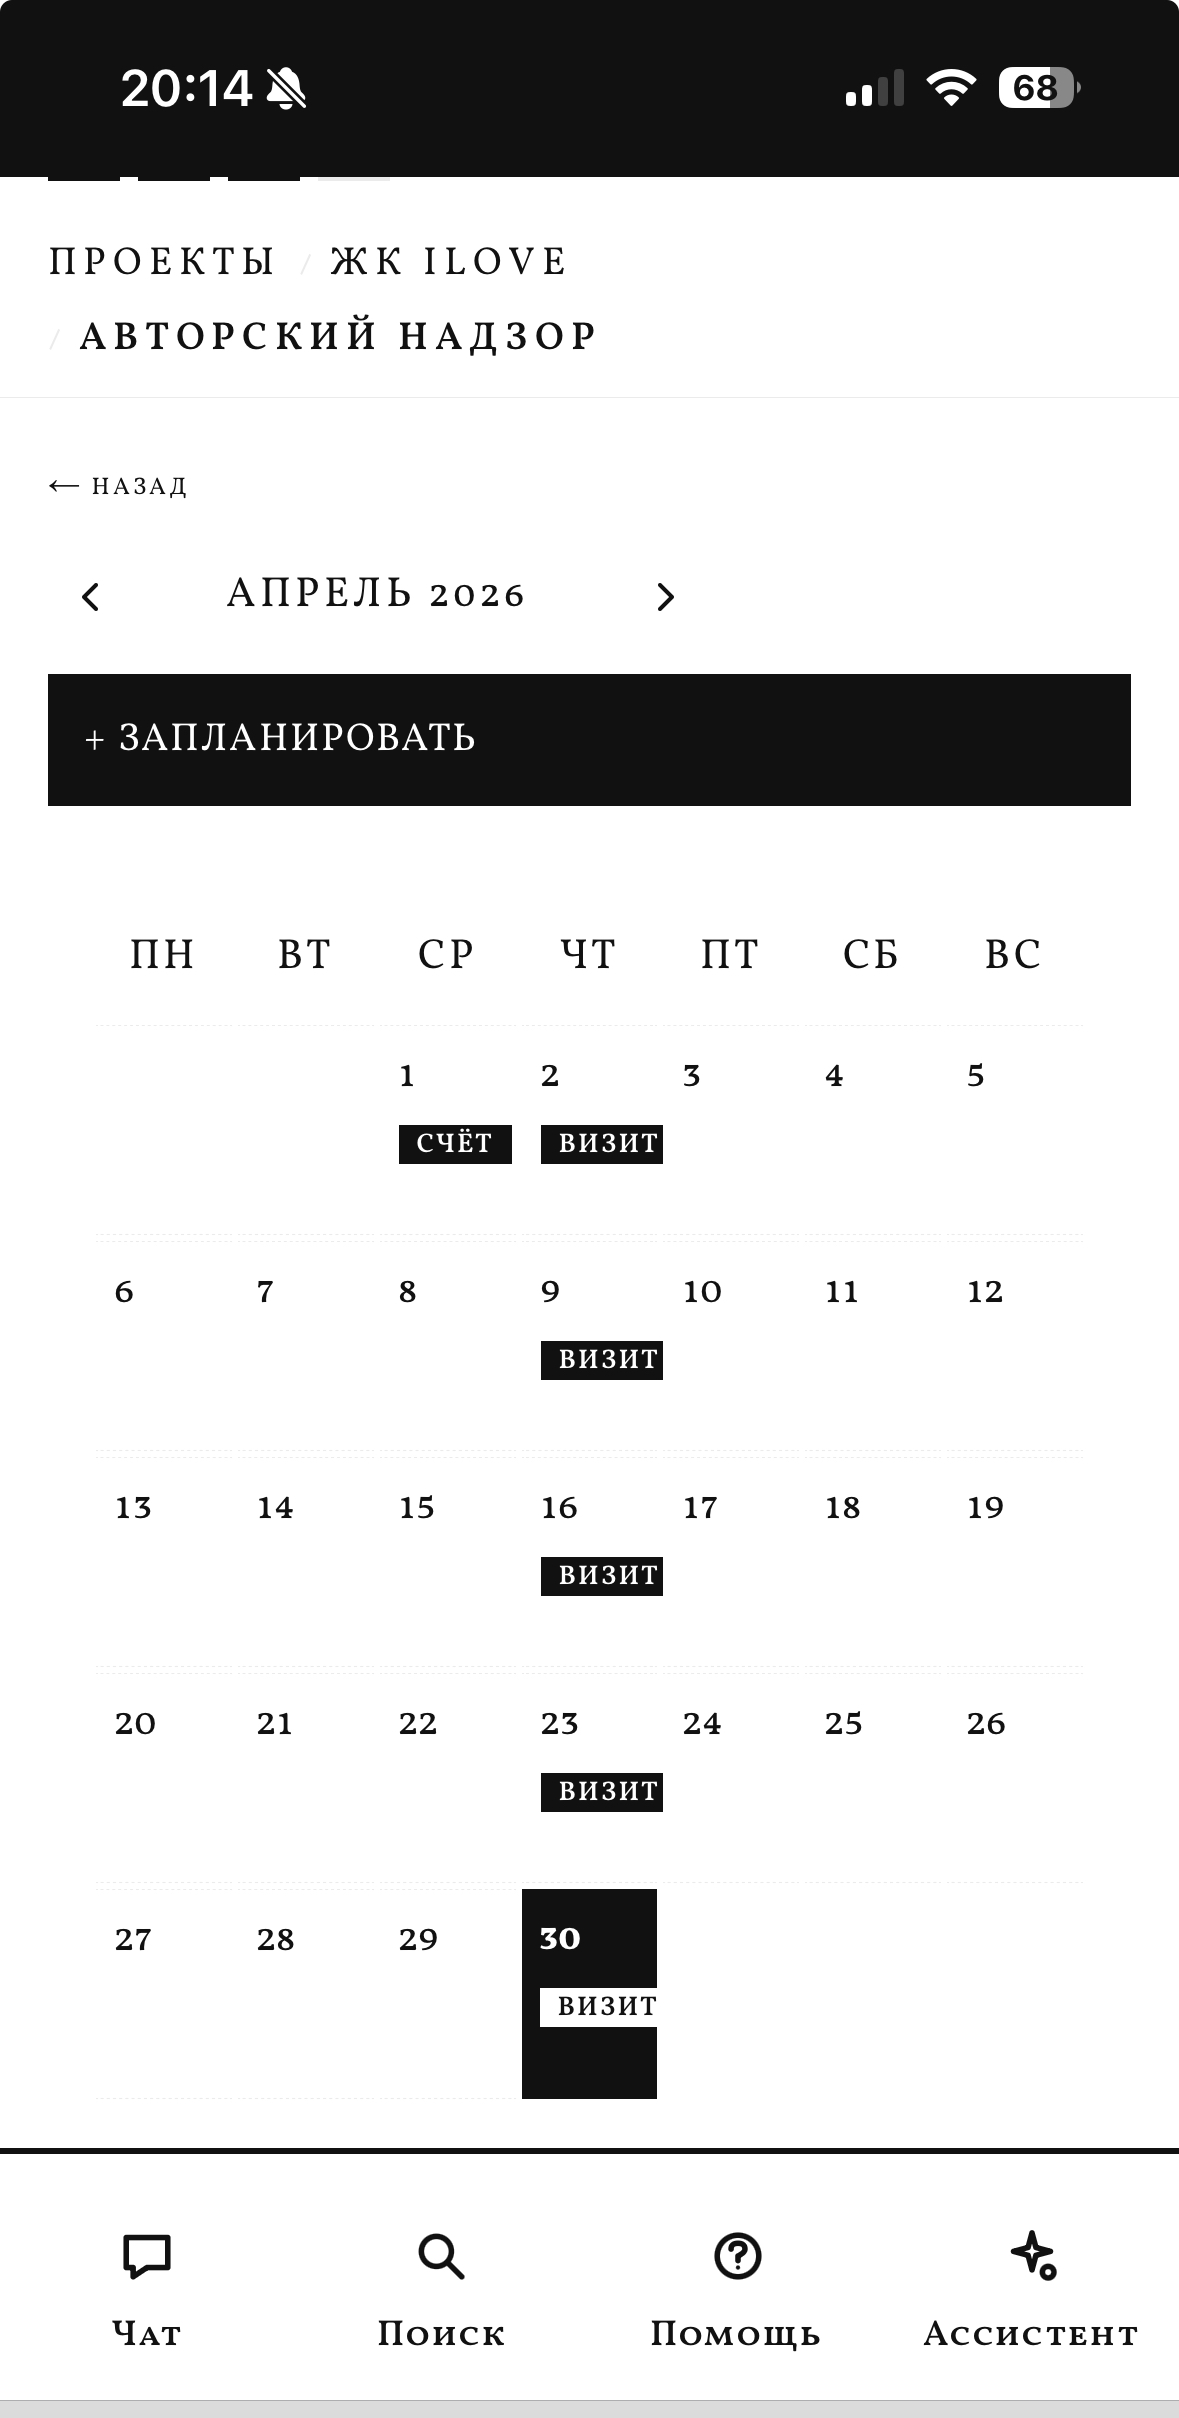
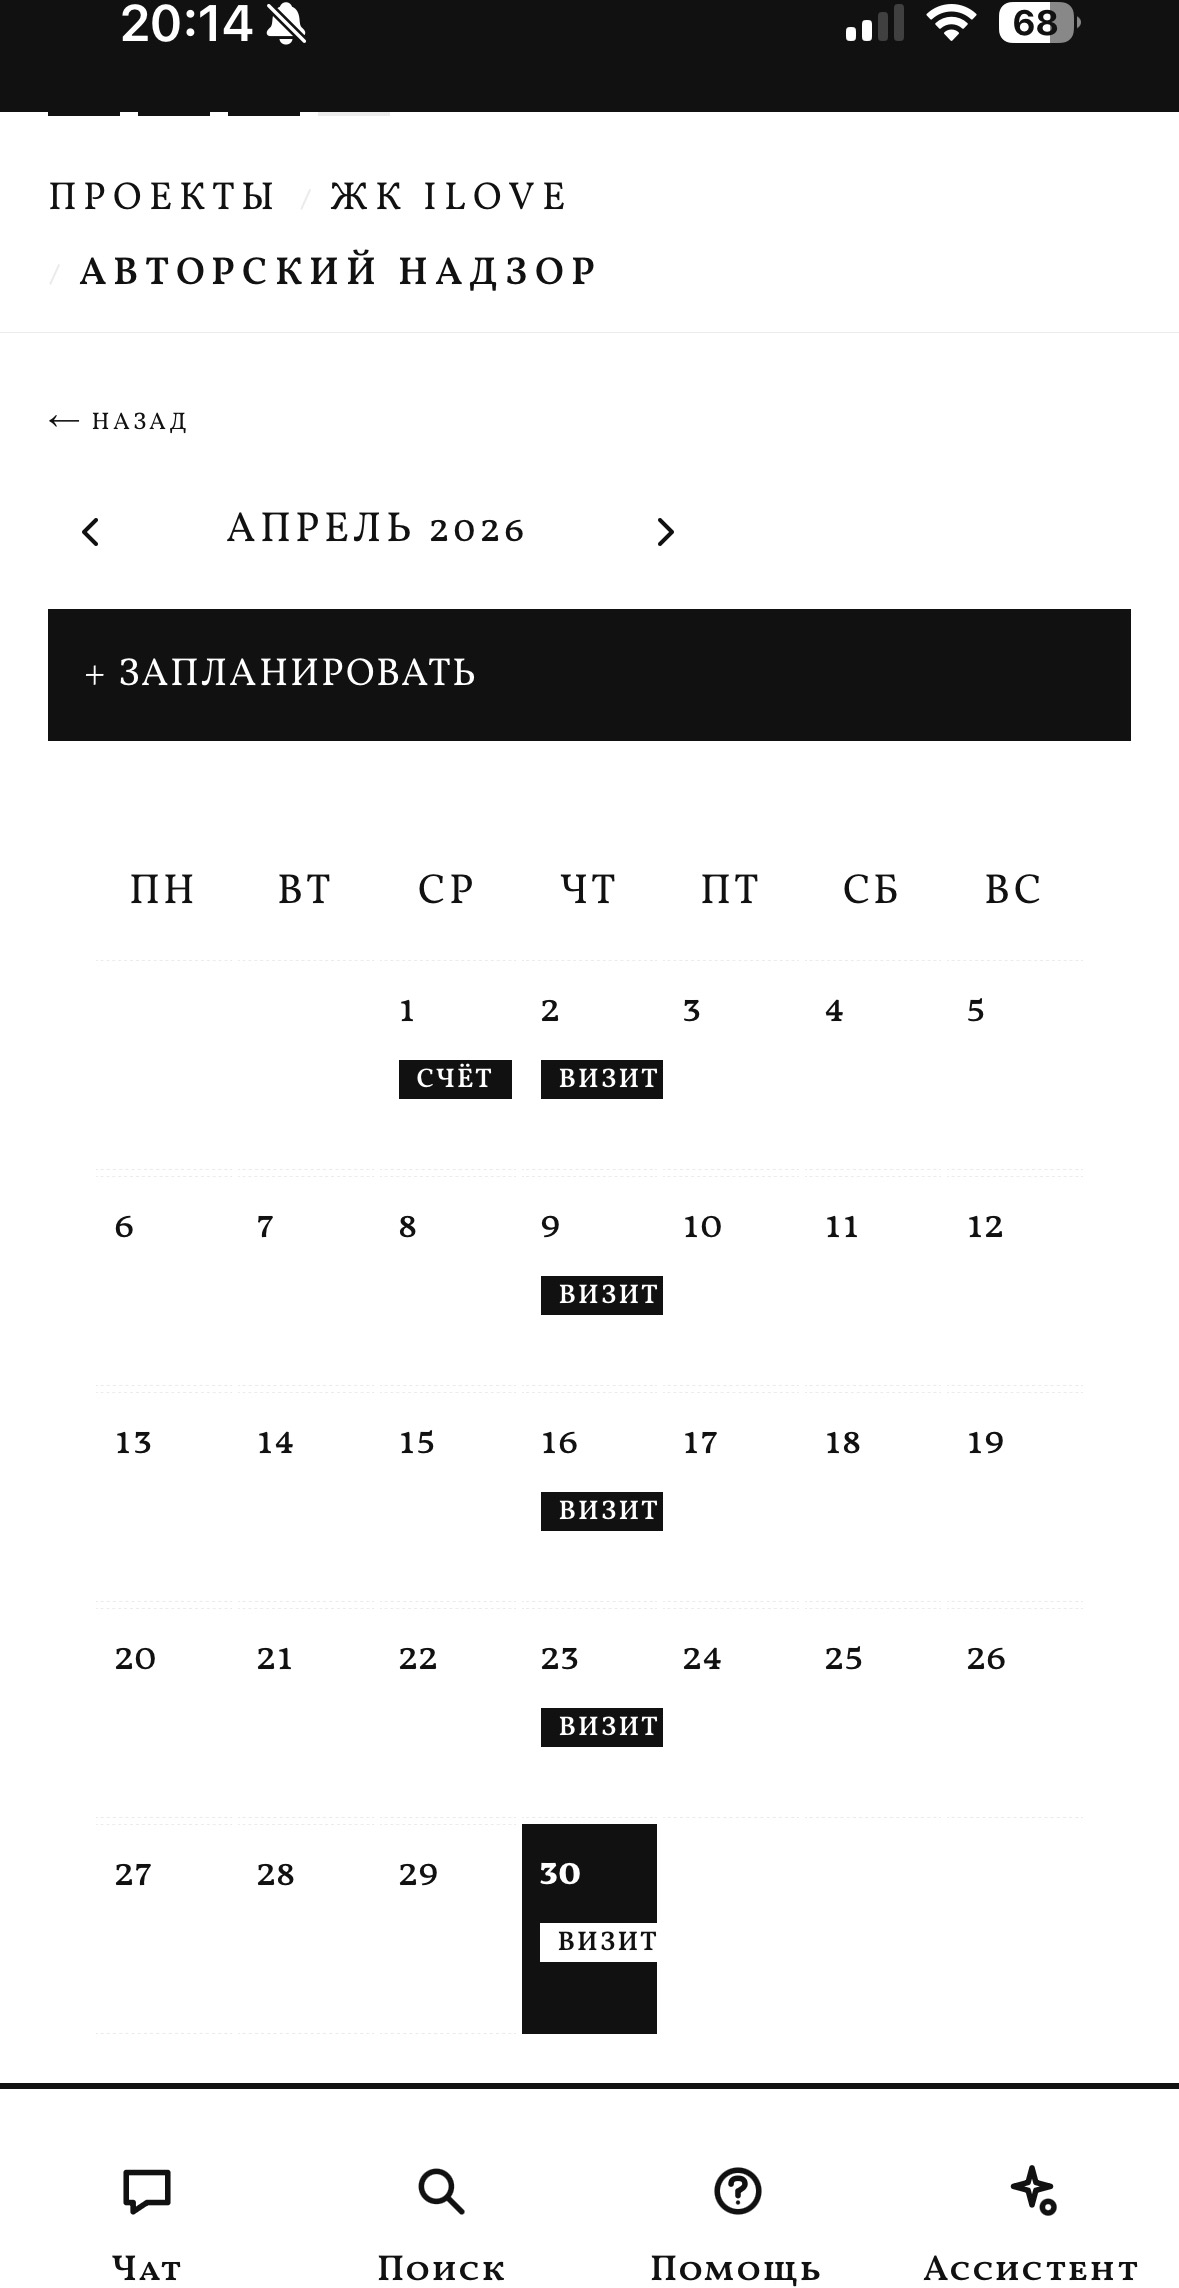
fix(landing): remove shot-tabs, "Archflow" wordmark, crop mobile screens
- Drop top labels above each shot (hero "Иванова М. · 4 проекта", module shotTab)
- Remove "Archflow" word next to logo in topbar (logo only)
- Crop iPhone status bar from supervision screenshot
- Crop browser chrome from bottom of supply and chat screenshots

diff --git a/nextjs-src/src/app/landing/Landing.tsx b/nextjs-src/src/app/landing/Landing.tsx
@@ -39,7 +39,6 @@ function Topbar() {
         <a href="/welcome" className="afl-logo" aria-label="Archflow">
           {/* eslint-disable-next-line @next/next/no-img-element */}
           <img src="/logo.png" alt="" />
-          <span className="afl-logo-word">Archflow</span>
         </a>
         <nav className="afl-nav">
           <a href="#modules"><span className="num">01</span>Модули</a>
@@ -110,9 +109,6 @@ function HeroShot() {
     <section className="afl-sect afl-shot-sect">
       <div className="afl-body">
         <div className="afl-frame">
-          <div className="afl-frame-tab">
-            <span className="afl-micro muted">Иванова М. · 4 проекта · 2 архивных</span>
-          </div>
           <div className="afl-frame-body" style={{ padding: 0 }}>
             {/* eslint-disable-next-line @next/next/no-img-element */}
             <img
@@ -386,10 +382,6 @@ function ModuleShot({ m }: { m: ModuleDef }) {
   const mobileSrc = m.shotSrcMobile || m.shotSrc;
   return (
     <div className="shot">
-      <div className="shot-tab">
-        <span className="afl-micro">{m.shotTab}</span>
-        <span className="afl-micro muted">{m.shotMeta}</span>
-      </div>
       <div className="shot-body">
         {/* eslint-disable-next-line @next/next/no-img-element */}
         <img
